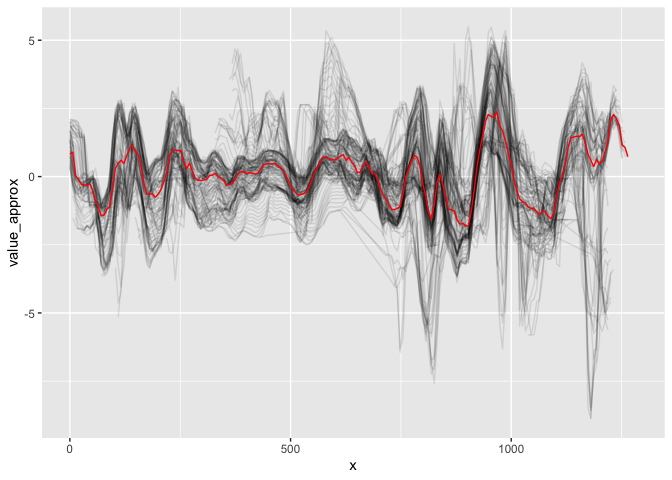
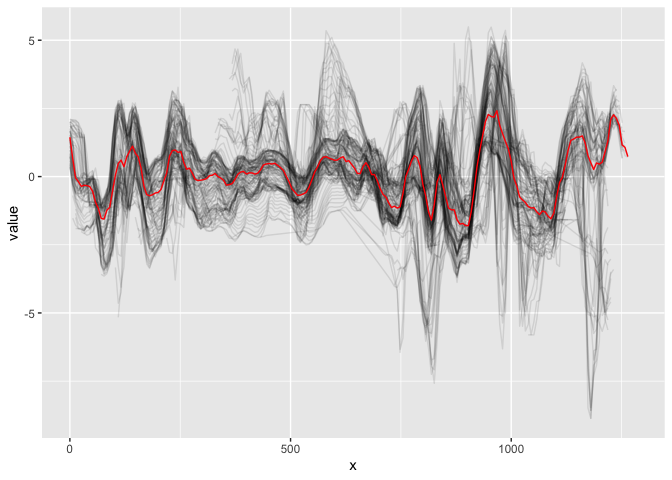
devtools::build_readme

diff --git a/README.md b/README.md
@@ -7,7 +7,7 @@
 
 [![Lifecycle:
 experimental](https://img.shields.io/badge/lifecycle-experimental-orange.svg)](https://lifecycle.r-lib.org/articles/stages.html#experimental)
-[![Last-changedate](https://img.shields.io/badge/last%20change-2023--10--17-yellowgreen.svg)](https://github.com/YuhangTom/wire/commits/main)
+[![Last-changedate](https://img.shields.io/badge/last%20change-2023--10--18-yellowgreen.svg)](https://github.com/YuhangTom/wire/commits/main)
 [![Codecov test
 coverage](https://codecov.io/gh/YuhangTom/wire/branch/main/graph/badge.svg)](https://app.codecov.io/gh/YuhangTom/wire?branch=main)
 [![R-CMD-check](https://github.com/YuhangTom/wire/actions/workflows/R-CMD-check.yaml/badge.svg)](https://github.com/YuhangTom/wire/actions/workflows/R-CMD-check.yaml)
@@ -140,6 +140,7 @@ respectively:
 
 ``` r
 raw_sig <- x3p_raw_sig_vec(x3p_bin_rotate, ifplot = TRUE)
+#> Warning: Removed 7215 rows containing missing values (`geom_line()`).
 ```
 
 <img src="man/figures/README-signal-1.png" width="100%" />
@@ -167,15 +168,16 @@ shift_sig <- x3p_shift_sig_vec(x3p_bin_rotate, ifplot = TRUE)
 <img src="man/figures/README-signal-6.png" width="100%" />
 
     #> Warning: Removed 7447 rows containing missing values (`geom_line()`).
+    #> Warning: Removed 3 rows containing missing values (`geom_line()`).
 
 <img src="man/figures/README-signal-7.png" width="100%" />
 
 ``` r
 shift_sig %>%
   str()
-#> tibble [197 × 2] (S3: tbl_df/tbl/data.frame)
-#>  $ x  : num [1:197] 0 6.45 12.9 19.35 25.8 ...
-#>  $ sig: num [1:197] 0.8362 0.8927 0.0303 -0.1065 -0.287 ...
+#> tibble [200 × 2] (S3: tbl_df/tbl/data.frame)
+#>  $ x  : num [1:200] 0 6.45 12.9 19.35 25.8 ...
+#>  $ sig: num [1:200] 1.4423 0.66 -0.0458 -0.1864 -0.3596 ...
 ```
 
 ## Signal alignment
@@ -191,9 +193,9 @@ vec_align_sigs_list(raw_sig$sig, shift_sig$sig, ifplot = TRUE) %>%
 <img src="man/figures/README-align-1.png" width="100%" />
 
     #> List of 3
-    #>  $ ccf  : num 0.987
+    #>  $ ccf  : num 0.99
     #>  $ lag  : num -3
     #>  $ lands:'data.frame':   200 obs. of  3 variables:
     #>   ..$ x   : int [1:200] 1 2 3 4 5 6 7 8 9 10 ...
     #>   ..$ sig1: num [1:200] 1.852 1.916 1.759 1.572 0.794 ...
-    #>   ..$ sig2: num [1:200] NA NA NA 0.836 0.893 ...
+    #>   ..$ sig2: num [1:200] NA NA NA 1.44 0.66 ...
